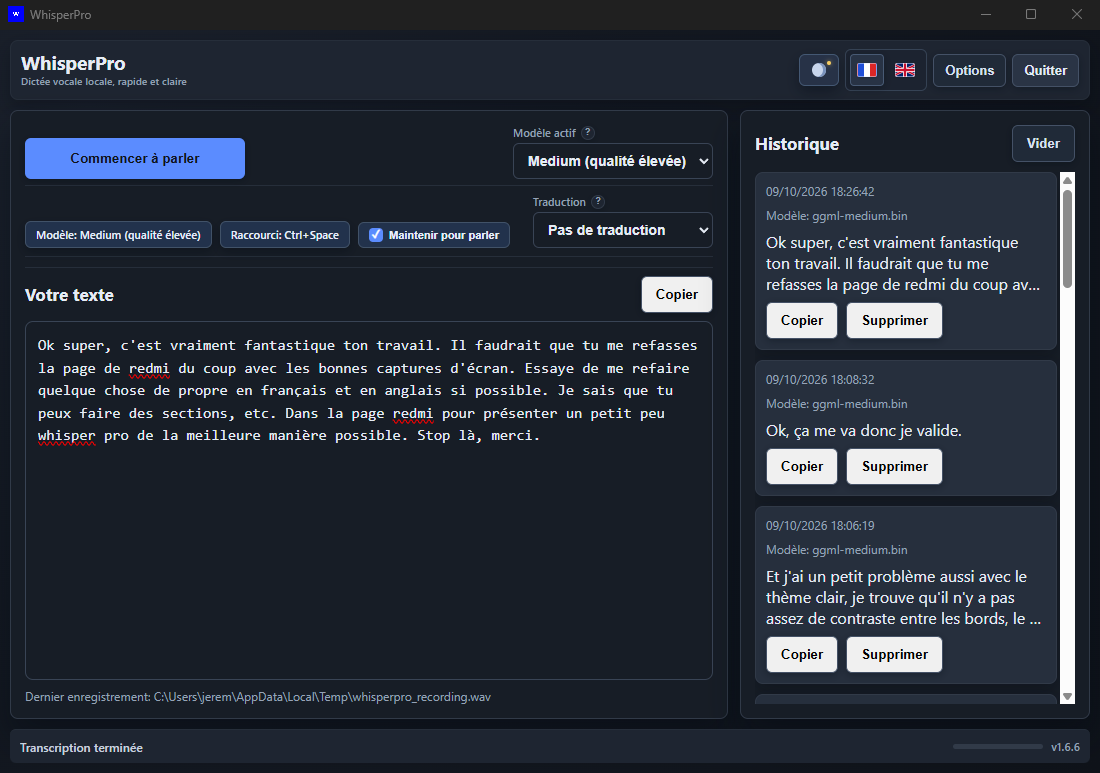
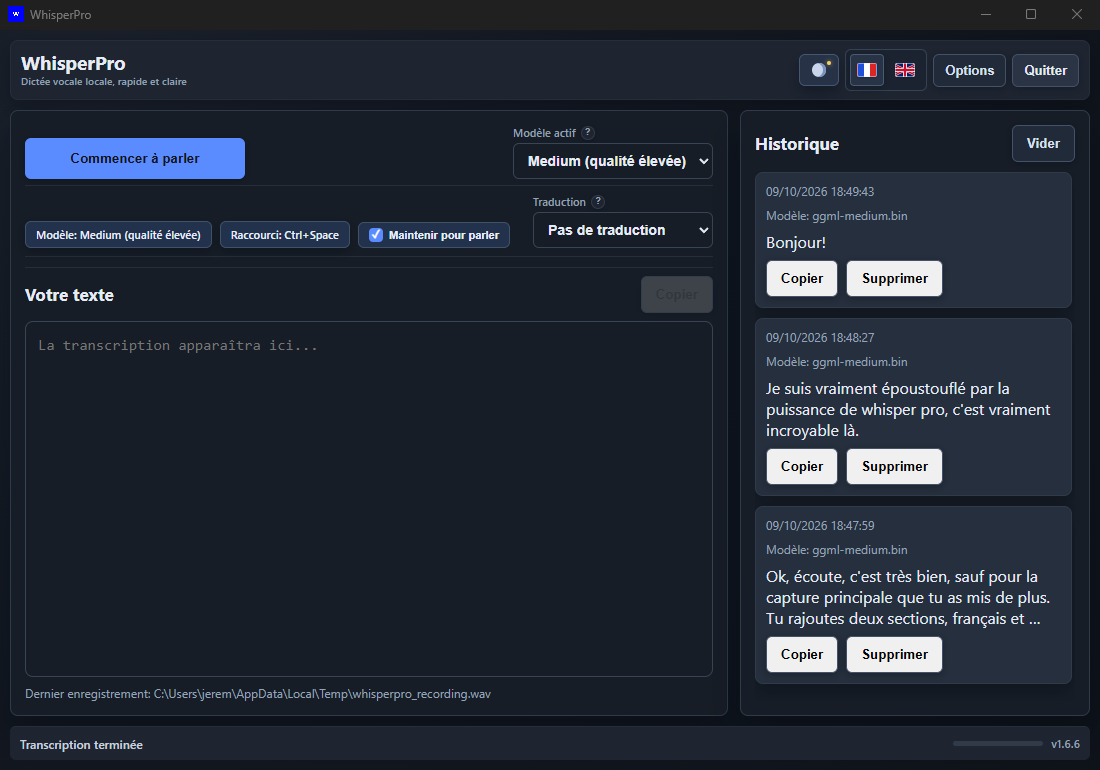
docs: split README into FR (root) + EN with language switcher; fresh main screenshot

diff --git a/README.md b/README.md
@@ -4,23 +4,17 @@
 
 **Dictée vocale locale, rapide et privée — sur Windows.**
 
-**Local, fast and private voice dictation — on Windows.**
-
-[Installation](#-installation--installation) · [Fonctionnalités](#-fonctionnalités--features) · [Support the project](https://buymeacoffee.com/skroproduction)
+**Français** · [English](README.en.md)
 
 </div>
 
----
-
-## 🇫🇷 Français
-
 **WhisperPro** transforme votre voix en texte, dans n'importe quelle application. Un raccourci clavier global, vous parlez, le texte s'écrit là où votre curseur se trouve. Tout se passe **en local, sur votre machine** : aucun audio n'est envoyé dans le cloud, aucune donnée ne quitte votre PC.
 
-### 🖥 L'interface
+## 🖥 L'interface
 
 ![Écran principal de WhisperPro](assets/screenshots/main.png)
 
-### ✨ Fonctionnalités
+## ✨ Fonctionnalités
 
 - **Dictée instantanée** — raccourci global `Ctrl+Espace` (personnalisable), ou mode *push-to-talk* : appuyez pour parler, relâchez pour transcrire
 - **100 % local** — Whisper tourne sur votre machine avec accélération GPU quand elle est disponible ; l'app détecte et répare elle-même son accélération
@@ -33,11 +27,11 @@
 - **Thèmes clair et sombre**, interface en français ou en anglais
 - **Mises à jour en un clic** depuis le pied de page
 
-### 🎯 Cas d'usage
+## 🎯 Cas d'usage
 
 Rédiger mails et messages plus vite · prendre des notes en réunion · dicter des brouillons · traduire en parlant.
 
-### ⚙ Installation
+## ⚙ Installation
 
 WhisperPro se distribue via npm (pas d'installeur, pas de SmartScreen) :
 
@@ -48,7 +42,7 @@ whisperpro
 
 Nécessite Node.js. Mises à jour : bouton dans l'app, ou `npm install -g whisperpro@latest`.
 
-### 🔧 Configuration
+## 🔧 Configuration
 
 - **Modèles** : tiny (rapide) → medium (qualité élevée), gérés depuis l'onglet *Modèles et système*
 
@@ -57,56 +51,6 @@ Nécessite Node.js. Mises à jour : bouton dans l'app, ou `npm install -g whispe
 - **Options** : langue, microphone, raccourci clavier, commandes de ponctuation, widget
 
 ![Panneau d'options](assets/screenshots/settings.png)
-
----
-
-## 🇬🇧 English
-
-**WhisperPro** turns your voice into text, in any application. One global keyboard shortcut, you speak, the text lands wherever your cursor is. Everything runs **locally, on your machine**: no audio ever leaves your PC.
-
-### 🖥 The interface
-
-![WhisperPro main screen](assets/screenshots/main.png)
-
-### ✨ Features
-
-- **Instant dictation** — global `Ctrl+Space` shortcut (customizable), or push-to-talk: hold to speak, release to transcribe
-- **100 % local** — Whisper runs on your machine with GPU acceleration when available; the app detects and repairs its own acceleration setup
-- **Direct text injection** into the active field: mail clients, editors, chats, code editors…
-- **Automatic translation** after transcription, into multiple target languages
-- **Voice punctuation** — say "period", "comma", "new paragraph"
-- **Floating mini-widget** with recording feedback and live mic level
-- **Transcription history** with quick copy, or **Secure Text Mode** with zero local storage
-- **Built-in model library** — tiny to medium, download / activate / remove from the app
-- **Light and dark themes**, UI in French or English
-- **One-click updates** from the footer
-
-### 🎯 Use cases
-
-Faster emails and messages · real-time meeting notes · dictating first drafts · speak-and-translate in seconds.
-
-### ⚙ Installation
-
-Distributed as an npm package (no installer, no SmartScreen prompts):
-
-```bash
-npm install -g whisperpro
-whisperpro
-```
-
-Requires Node.js. Updates: in-app button, or `npm install -g whisperpro@latest`.
-
-### 🔧 Configuration
-
-- **Models**: tiny (fast) → medium (high quality), managed from the *Models & system* tab
-
-![Model library](assets/screenshots/models.png)
-
-- **Options**: language, microphone, keyboard shortcut, voice punctuation, widget
-
-![Options panel](assets/screenshots/settings.png)
-
----
 
 ## ☕ Support
 

diff --git a/README.en.md b/README.en.md
@@ -1,0 +1,57 @@
+<div align="center">
+
+# WhisperPro
+
+**Local, fast and private voice dictation — on Windows.**
+
+[Français](README.md) · **English**
+
+</div>
+
+**WhisperPro** turns your voice into text, in any application. One global keyboard shortcut, you speak, the text lands wherever your cursor is. Everything runs **locally, on your machine**: no audio ever leaves your PC.
+
+## 🖥 The interface
+
+![WhisperPro main screen](assets/screenshots/main.png)
+
+## ✨ Features
+
+- **Instant dictation** — global `Ctrl+Space` shortcut (customizable), or push-to-talk: hold to speak, release to transcribe
+- **100 % local** — Whisper runs on your machine with GPU acceleration when available; the app detects and repairs its own acceleration setup
+- **Direct text injection** into the active field: mail clients, editors, chats, code editors…
+- **Automatic translation** after transcription, into multiple target languages
+- **Voice punctuation** — say "period", "comma", "new paragraph"
+- **Floating mini-widget** with recording feedback and live mic level
+- **Transcription history** with quick copy, or **Secure Text Mode** with zero local storage
+- **Built-in model library** — tiny to medium, download / activate / remove from the app
+- **Light and dark themes**, UI in French or English
+- **One-click updates** from the footer
+
+## 🎯 Use cases
+
+Faster emails and messages · real-time meeting notes · dictating first drafts · speak-and-translate in seconds.
+
+## ⚙ Installation
+
+Distributed as an npm package (no installer, no SmartScreen prompts):
+
+```bash
+npm install -g whisperpro
+whisperpro
+```
+
+Requires Node.js. Updates: in-app button, or `npm install -g whisperpro@latest`.
+
+## 🔧 Configuration
+
+- **Models**: tiny (fast) → medium (high quality), managed from the *Models & system* tab
+
+![Model library](assets/screenshots/models.png)
+
+- **Options**: language, microphone, keyboard shortcut, voice punctuation, widget
+
+![Options panel](assets/screenshots/settings.png)
+
+## ☕ Support
+
+[Buy Me a Coffee — skroproduction](https://buymeacoffee.com/skroproduction)
